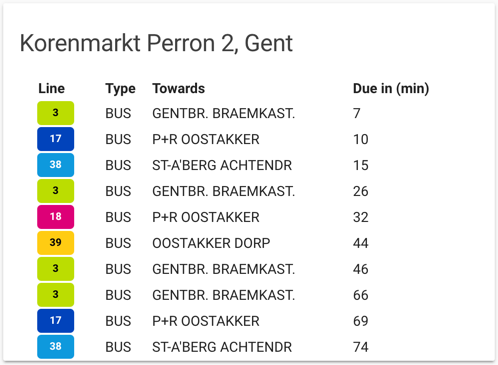
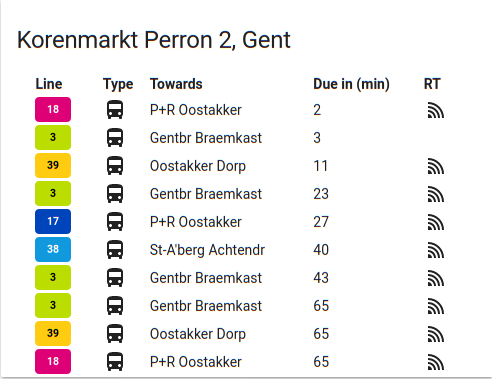
add examples with realtime column

diff --git a/README.md b/README.md
@@ -103,6 +103,8 @@ Example with a custom layout in the `ui-lovelace.yaml`. In this case also the sc
             title: Due at (real-time)
           - field: due_at_sch
             title: Due at (scheduled)
+          - field: is_realtime
+            title: RT
 
 ```
 
@@ -121,6 +123,8 @@ columns:
     title: Due at (real-time)
   - field: due_at_schedule
     title: Due at (scheduled)
+  - field: is_realtime
+    title: RT
 config_type: columns
 entity: sensor.brugsepoort_gent
 title: 'Brugsepoort, Gent'
